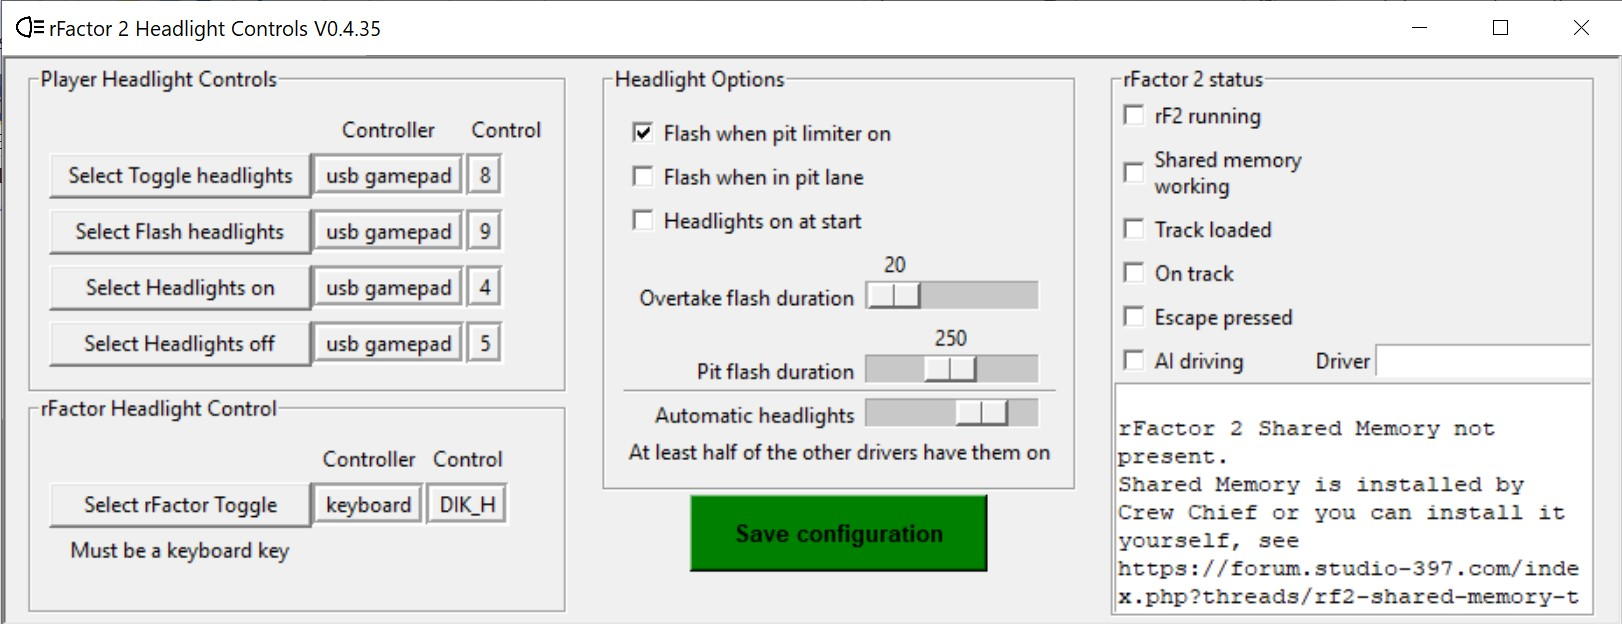
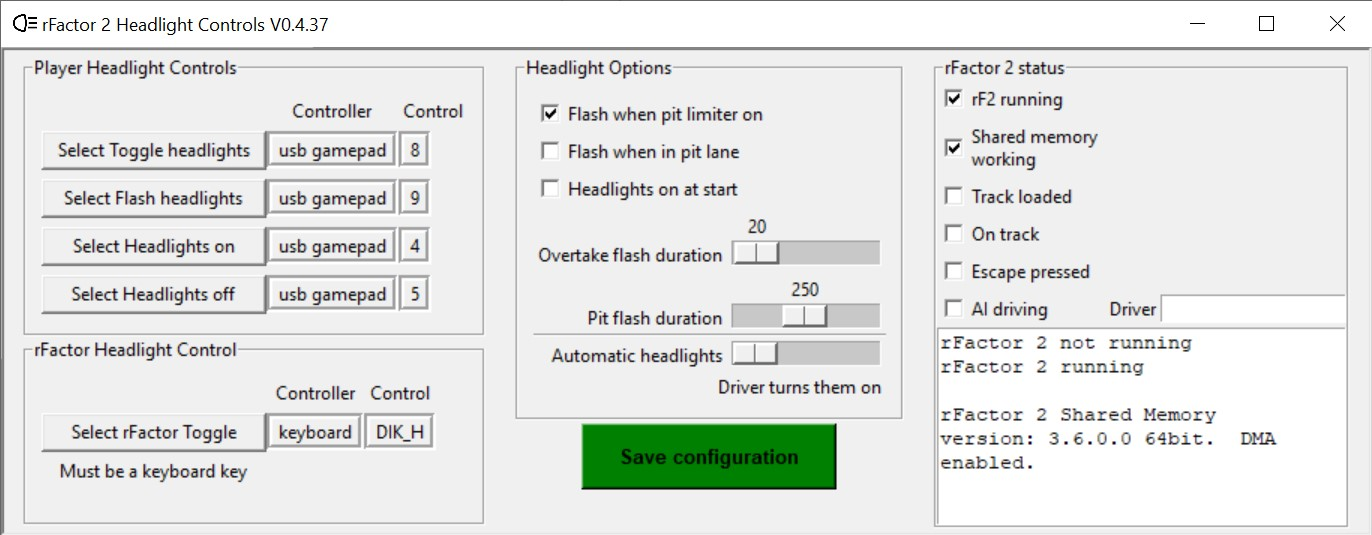
Update rF2 "running / not running" status Updated memory map API makeexe broken somehow, makeexeOLD works

diff --git a/gui.py b/gui.py
@@ -32,9 +32,9 @@ def status_poker_fn(string) -> None:
     except: # pylint: disable=bare-except
         pass
 
-BUILD_REVISION = 36  # The git commit count
+BUILD_REVISION = 37  # The git commit count
 versionStr = 'rFactor 2 Headlight Controls V0.4.%d' % BUILD_REVISION
-versionDate = '2019-08-21'
+versionDate = '2019-08-22'
 
 program_credits = "Reads the headlight state from rF2 using a Python\n" \
     "mapping of The Iron Wolf's rF2 Shared Memory Tools.\n" \
@@ -517,6 +517,7 @@ class rFactorStatusFrame(ControlFrame):
         self._tkCheckbuttons = {}
         self._timestamp = 0
         self.xPadding = 10
+        self.rFactor_running = False
         tkFrame_Status = tk.LabelFrame(parentFrame, text='rFactor 2 status')
         tkFrame_Status.grid(column=2,
                             row=0,
@@ -599,14 +600,26 @@ class rFactorStatusFrame(ControlFrame):
         ####################################################
         # Kick off the tick
         self.info = sharedMemoryAPI.SimInfoAPI()
-        self.statusText.insert(tk.END, self.info.versionCheck()+'\n')
+        if not self.info.isRF2running():
+            self.statusText.insert(tk.END, 'rFactor 2 not running\n')
         self.__tick()
 
         ####################################################
 
     def __tick(self):
         # timed callback to update live status
-        self.vars['rF2 running'].set(self.info.isRF2running())
+        if self.info.isRF2running():
+            self.vars['rF2 running'].set(True)
+            if not self.rFactor_running:
+                if self.info.isSharedMemoryAvailable():
+                    self.statusText.insert(tk.END, 'rFactor 2 running\n')
+                    self.statusText.insert(tk.END, self.info.versionCheck()+'\n')
+                    self.rFactor_running = True
+        else:
+            if self.rFactor_running:
+                self.statusText.insert(tk.END, 'rFactor 2 exited\n')
+                self.rFactor_running = False
+            self.vars['rF2 running'].set(False)
         self.vars['Shared memory working'].set(self.info.isSharedMemoryAvailable())
         self.vars['Track loaded'].set(self.info.isTrackLoaded())
         self.vars['On track'].set(self.info.isOnTrack())
@@ -665,17 +678,8 @@ class Run:
             if self.config_o.get(name, 'Controller') == KEYBOARD:
                 _keyboard_control = True
                 break
-        """
-        tk.Label(self.parentFrame,
-                 text="This window is only needed to capture keyboard input").\
-            grid(row=0, column=0)
-        """
         if _keyboard_control:
             root.bind('<KeyPress>', self.tk_event_callback)
-        """
-        else:  # minimise the windown
-            self.root.wm_state('iconic')
-        """
 
     def pygame_callback(self, event):
         """ docstring """

diff --git a/rF2headlights.py b/rF2headlights.py
@@ -23,20 +23,7 @@ def SetTimer(mS, callback, _args=None) -> Timer:
     else:
         pass  # TBD delete timer?
     return timer
-
-
-def StopTimer(timer) -> None:
-    """ docstring """
-    timer.cancel()
-
-
-def msgBox(string: str) -> None:
-    """ docstring """
-    print(string)
-
 #################################################################################
-
-
 def quit_program(errorCode: int) -> None:
     """ User presses a key before exiting program """
     print('\n\nPress Enter to exit')
@@ -107,11 +94,6 @@ class HeadlightControl:
     _count = 0
     timer = None
     _info = sharedMemoryAPI.SimInfoAPI()
-    if _info.isRF2running():
-        print('rFactor2 is running')
-        print(_info.versionCheckMsg)
-    else:
-        print('\nrFactor2 is not running\n')
 
     def __init__(self) -> None:
         """ docstring """
